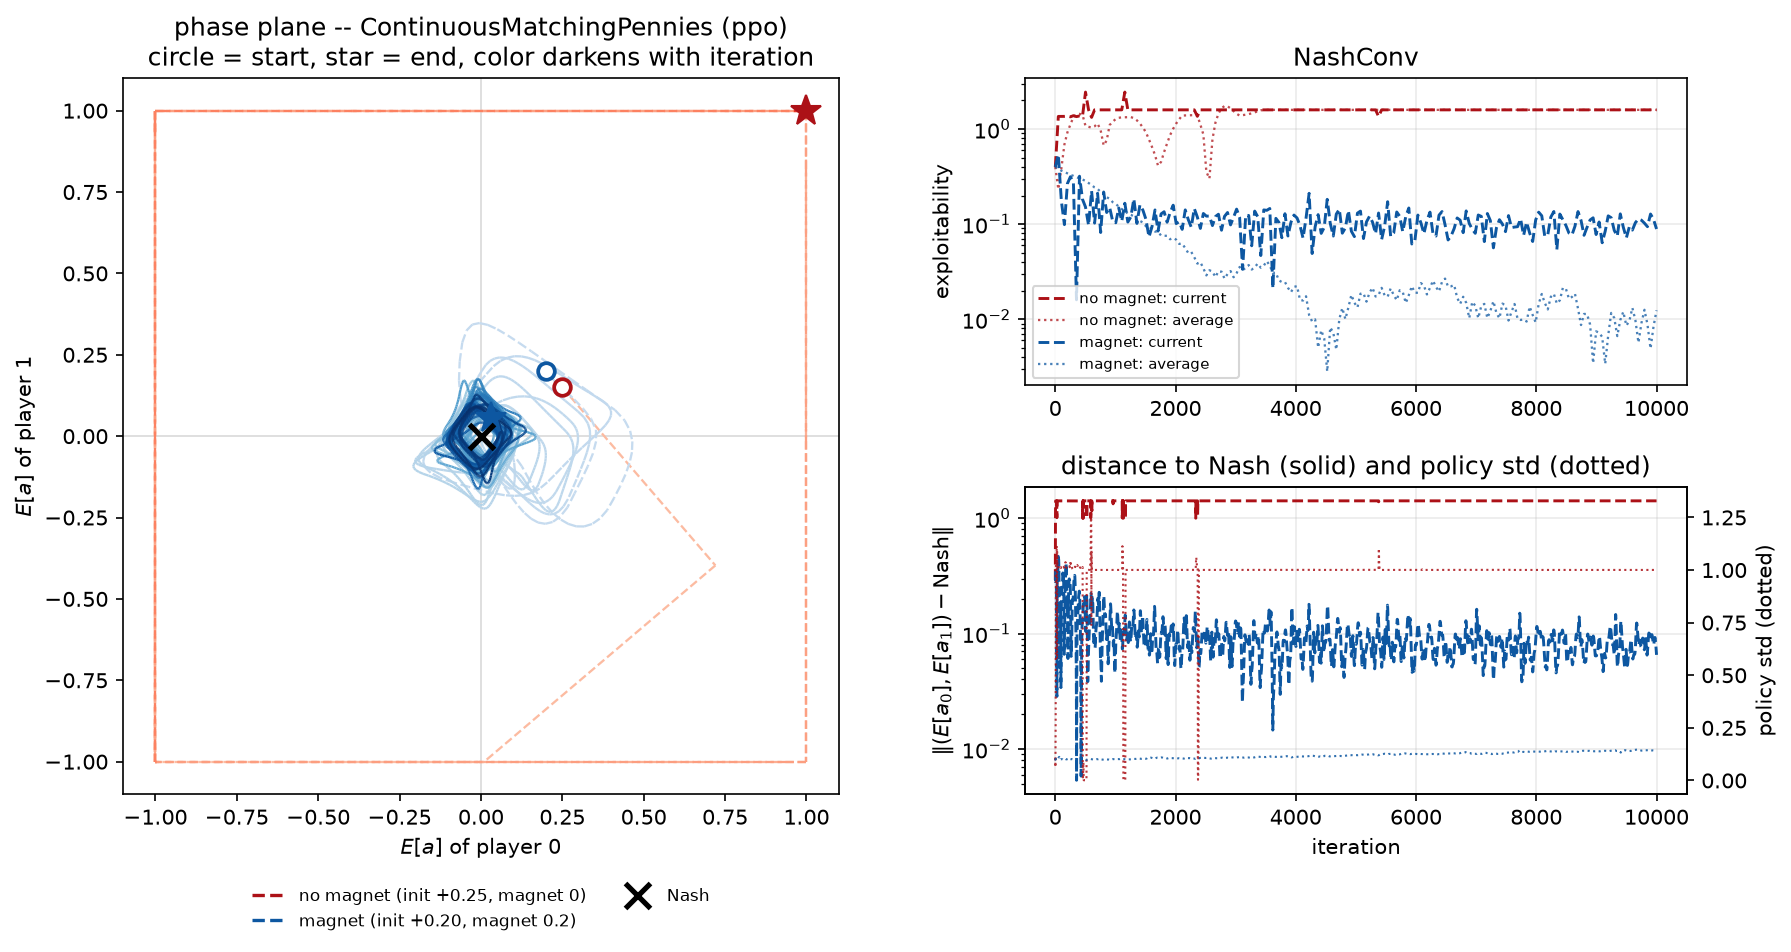
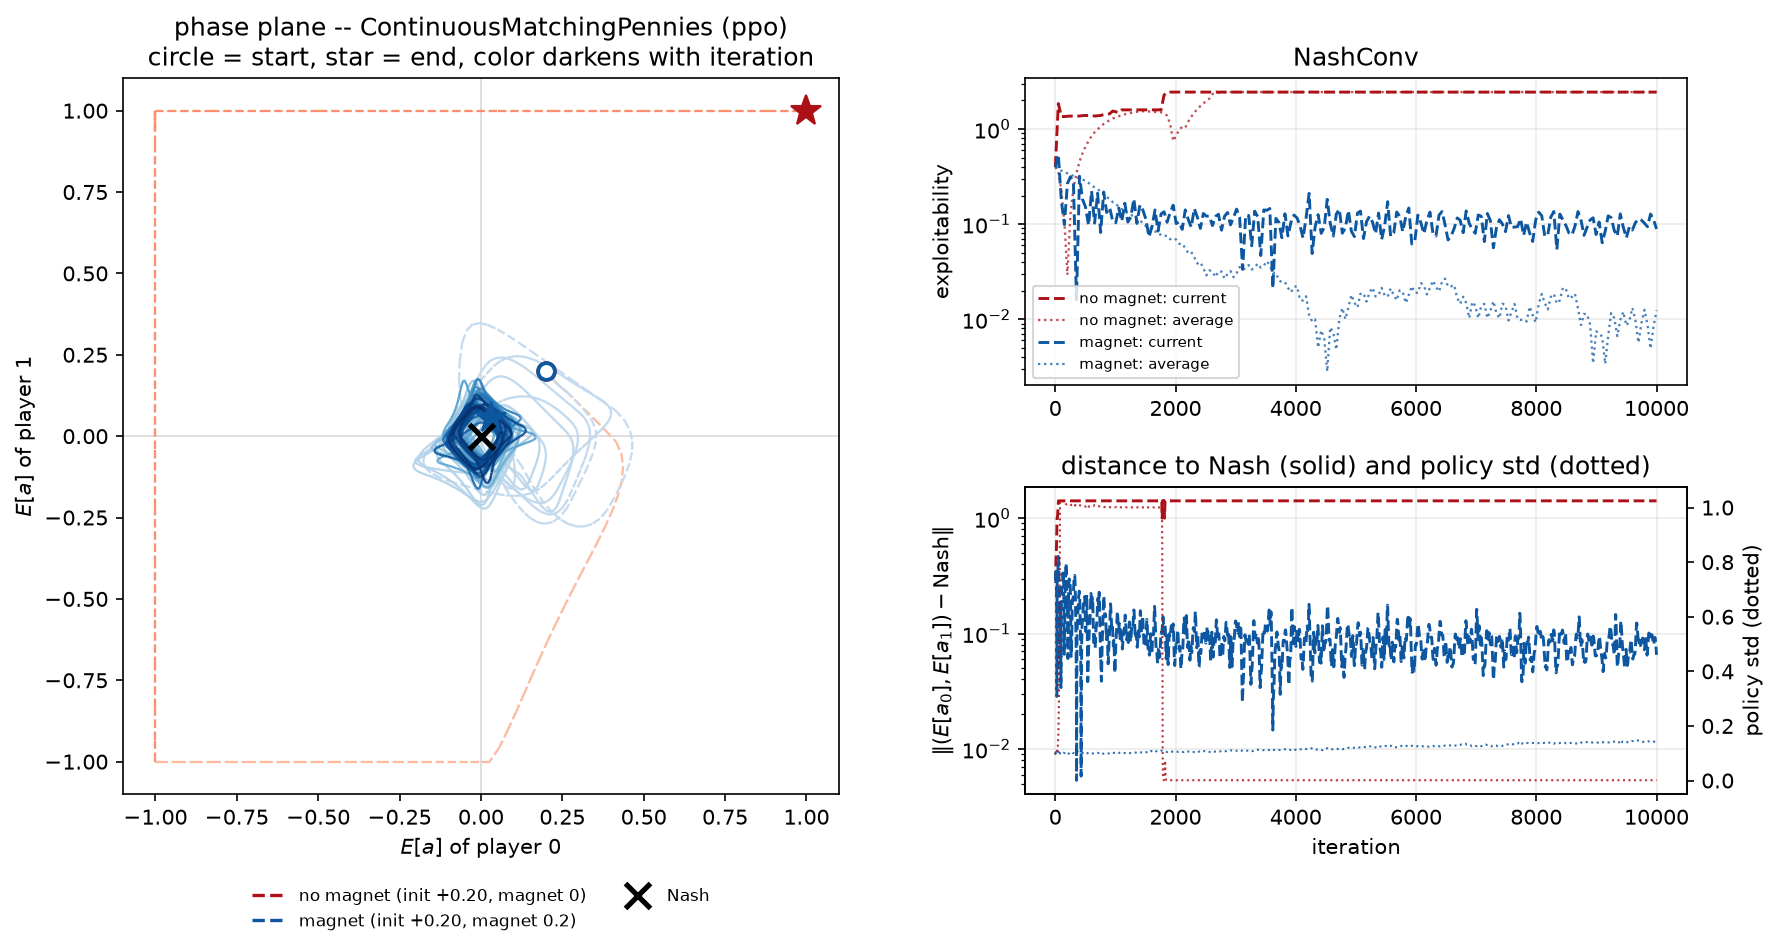
Again reran the experiment where the magnet ensures convergence. Changed the LR for the PPO, such that it is more reasonably big.

diff --git a/experiments/failing_gaussian_wo_magnet/plot_dynamics.py b/experiments/failing_gaussian_wo_magnet/plot_dynamics.py
@@ -11,10 +11,14 @@ Two engines can drive the same YAML (`--engine`):
   both      -- both, overlaid; the PPO curves are dashed.
 
 The game is bilinear matching pennies, `payoff(a0, a1) = a0 * a1` on `[-1, 1]`, so
-only the mean of each policy matters and the Nash is at the midpoint of the box. The
-only *intended* difference between the two configs is `ppo.magnet_gaussian_kl_coef`;
-pass `--init` to also equalize the starting means, which the two files as written do
-not share.
+only the mean of each policy matters and the Nash is at the midpoint of the box. Each
+of the two settings (with/without magnet) has its own pair of config files --
+`*_idealized.yaml` and `*_ppo.yaml` -- identical except `optimizer.learning_rate`
+(0.05 for the idealized solver, 0.001 for the PPO network -- the same field feeds
+both `cfg.lr` and the network's Adam step size, so each engine gets its own value).
+The only *intended* difference between with-magnet and without-magnet is
+`ppo.magnet_gaussian_kl_coef`; pass `--init` to also equalize the starting means,
+which the two settings as written do not share.
 
 The figure has three panels:
 
@@ -74,11 +78,16 @@ from training import mixture_trainer as mt
 from training.run_config import load_run_config
 
 RUNS = [
-    ("wo_magnet.yaml", "no magnet", "Reds"),
-    ("with_magnet.yaml", "magnet", "Blues"),
+    ("wo_magnet", "no magnet", "Reds"),
+    ("with_magnet", "magnet", "Blues"),
 ]
 ENGINES = ("idealized", "ppo")
 STYLE = {"idealized": "-", "ppo": "--"}
+
+
+def config_name(base: str, engine: str) -> str:
+    """Each (base, engine) pair has its own config file -- see module docstring."""
+    return f"{base}_{engine}.yaml"
 
 
 def _asdict(obj):
@@ -416,12 +425,13 @@ def main() -> None:
 
     if args.reuse:
         cached = load_cache(cache_path)
-        results = [(tag(e, label), cached[f"{e}:{name}"], cmap, STYLE[e])
-                   for e in engines for name, label, cmap in RUNS]
+        results = [(tag(e, label), cached[f"{e}:{config_name(base, e)}"], cmap, STYLE[e])
+                   for e in engines for base, label, cmap in RUNS]
     else:
         results, cache = [], {}
         for engine in engines:
-            for name, label, cmap in RUNS:
+            for base, label, cmap in RUNS:
+                name = config_name(base, engine)
                 print(f"running {name} [{engine}] ...", flush=True)
                 r = simulate(HERE / name, engine, args.init, args.expl_points,
                              seed_init=not args.network_init)

diff --git a/experiments/failing_gaussian_wo_magnet/README.md b/experiments/failing_gaussian_wo_magnet/README.md
@@ -6,12 +6,17 @@ The game is `matching_pennies` = `ContinuousMatchingPennies`, `payoff(a0, a1) = 
 on `[-1, 1]`. It is bilinear, so only the *mean* of each policy matters, every best response sits at a box corner, and the unique Nash has both players' mean at the box
 midpoint `0`.
 
-* `wo_magnet.yaml` -- `magnet_gaussian_kl_coef: 0.0`. Fails: the pair of means spirals
-  *away* from the Nash (the classic bilinear rotation, which gradient ascent-descent
-  turns into an outward spiral) until both means clip at the box boundary, then orbits
-  there forever. Exploitability flat at ~1.0-1.2.
-* `with_magnet.yaml` -- identical except `magnet_gaussian_kl_coef: 0.2`. The orbit
-  becomes an inward spiral; exploitability decays geometrically to ~1e-8.
+* `wo_magnet_{idealized,ppo}.yaml` -- `magnet_gaussian_kl_coef: 0.0`. Fails: the pair of
+  means spirals *away* from the Nash (the classic bilinear rotation, which gradient
+  ascent-descent turns into an outward spiral) until both means clip at the box
+  boundary, then orbits there forever. Exploitability flat at ~1.0-1.2.
+* `with_magnet_{idealized,ppo}.yaml` -- identical except `magnet_gaussian_kl_coef: 0.2`.
+  The orbit becomes an inward spiral; exploitability decays geometrically to ~1e-8.
+
+Each setting is split into an `_idealized.yaml` and a `_ppo.yaml` file, identical except
+`optimizer.learning_rate` (0.05 vs 0.001) -- that one field feeds both the idealized
+solver's step size and the PPO network's Adam learning rate, and the two engines need
+different values (see `plot_dynamics.py`'s docstring).
 
 In *average* strategies (the `target_tau` EMA, dashed in the plot) the no-magnet run
 improves and then plateaus around 1e-1. That plateau is EMA ripple, not a second
@@ -23,8 +28,8 @@ the current strategies fail to converge.
 Run:
 
 ```
-python run_idealized.py experiments/failing_gaussian_wo_magnet/wo_magnet.yaml
-python train.py         experiments/failing_gaussian_wo_magnet/wo_magnet.yaml
+python run_idealized.py experiments/failing_gaussian_wo_magnet/wo_magnet_idealized.yaml
+python train.py         experiments/failing_gaussian_wo_magnet/wo_magnet_ppo.yaml
 ```
 
 ## Plot
@@ -66,7 +71,7 @@ the Nash together with the policy std.
 ### What the PPO engine does
 
 Same networks, hyperparameters and self-play train step as `train.py` -- it builds a
-`MixtureSelfPlayPPOTrainer` from the same YAML -- but instead of `trainer.train()`'s
+`MixtureSelfPlayPPOTrainer` from the config's `_ppo.yaml` -- but instead of `trainer.train()`'s
 chunked loop it scans the train step itself, reading the policy head out at the game's
 (constant) observation every iteration. Two deliberate differences from a bare
 `python train.py`:
@@ -161,7 +166,7 @@ Everything in `stats` is derived from `params`, so questions the plot does not a
 ```python
 import pickle
 runs = pickle.load(open("experiments/failing_gaussian_wo_magnet/dynamics_runs_both.pkl", "rb"))
-r = runs["ppo:wo_magnet.yaml"]
+r = runs["ppo:wo_magnet_ppo.yaml"]
 r["hyperparameters"]["run_config"]["ppo"]["magnet_gaussian_kl_coef"]  # 0.0
 r["stats"]["x"][-1]                                                   # final E[a] of player 0
 ```
@@ -170,9 +175,9 @@ r["stats"]["x"][-1]                                                   # final E[
 
 | file | what |
 |-|-|
-| `wo_magnet.yaml` | no magnet on the Gaussian head; starts at mean +1.0 |
-| `with_magnet.yaml` | same, `magnet_gaussian_kl_coef: 0.2`; starts at mean +0.2 |
-| `plot_dynamics.py` | runs both configs under either engine, writes the figure and a trace cache |
+| `wo_magnet_idealized.yaml` / `wo_magnet_ppo.yaml` | no magnet on the Gaussian head; starts at mean +1.0; `lr` 0.05 / 0.001 |
+| `with_magnet_idealized.yaml` / `with_magnet_ppo.yaml` | same, `magnet_gaussian_kl_coef: 0.2`; starts at mean +0.2; `lr` 0.05 / 0.001 |
+| `plot_dynamics.py` | runs the matching engine's pair of configs, writes the figure and a trace cache |
 | `dynamics.png` | idealized engine, configs as written (inits differ, see below) |
 | `dynamics_matched_init.png` | idealized, `--init 0.2`: the clean ablation, magnet is the only difference |
 | `dynamics_ppo.png` | `train.py`'s PPO on the same two configs |
